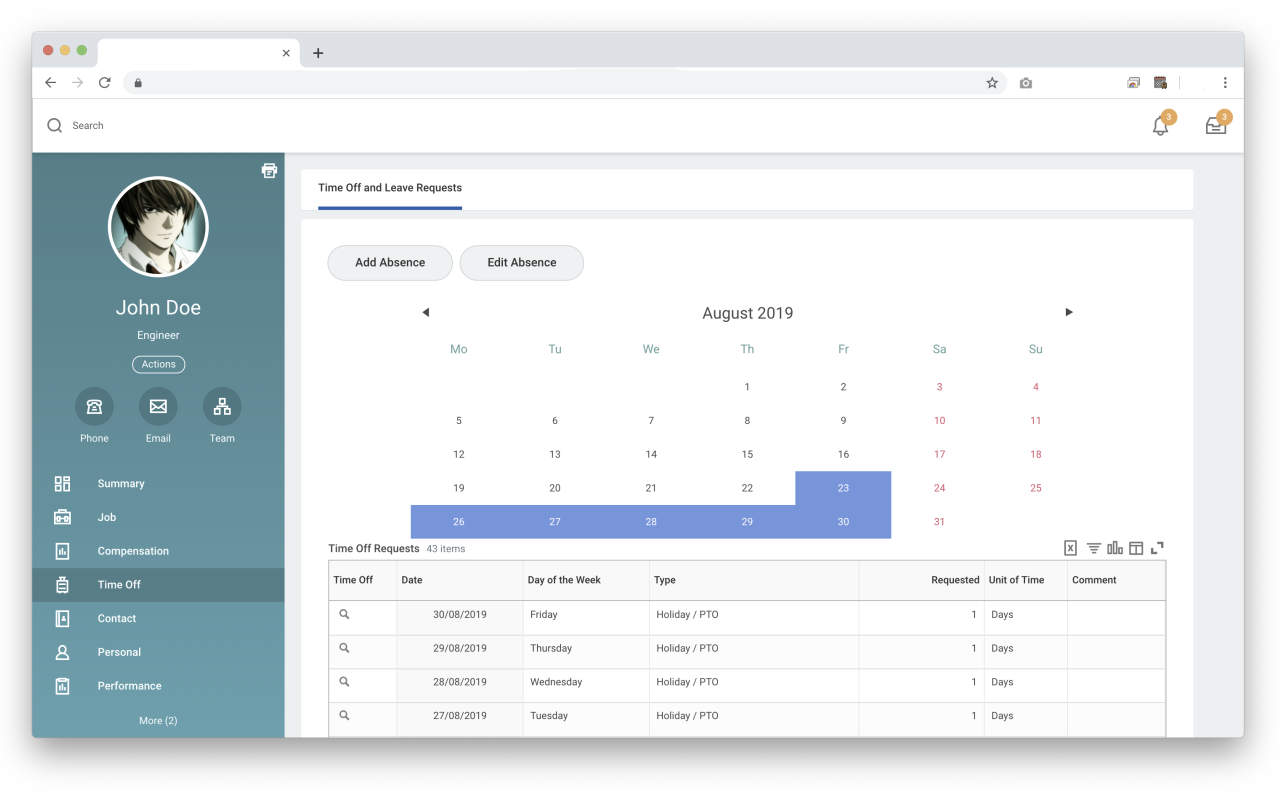
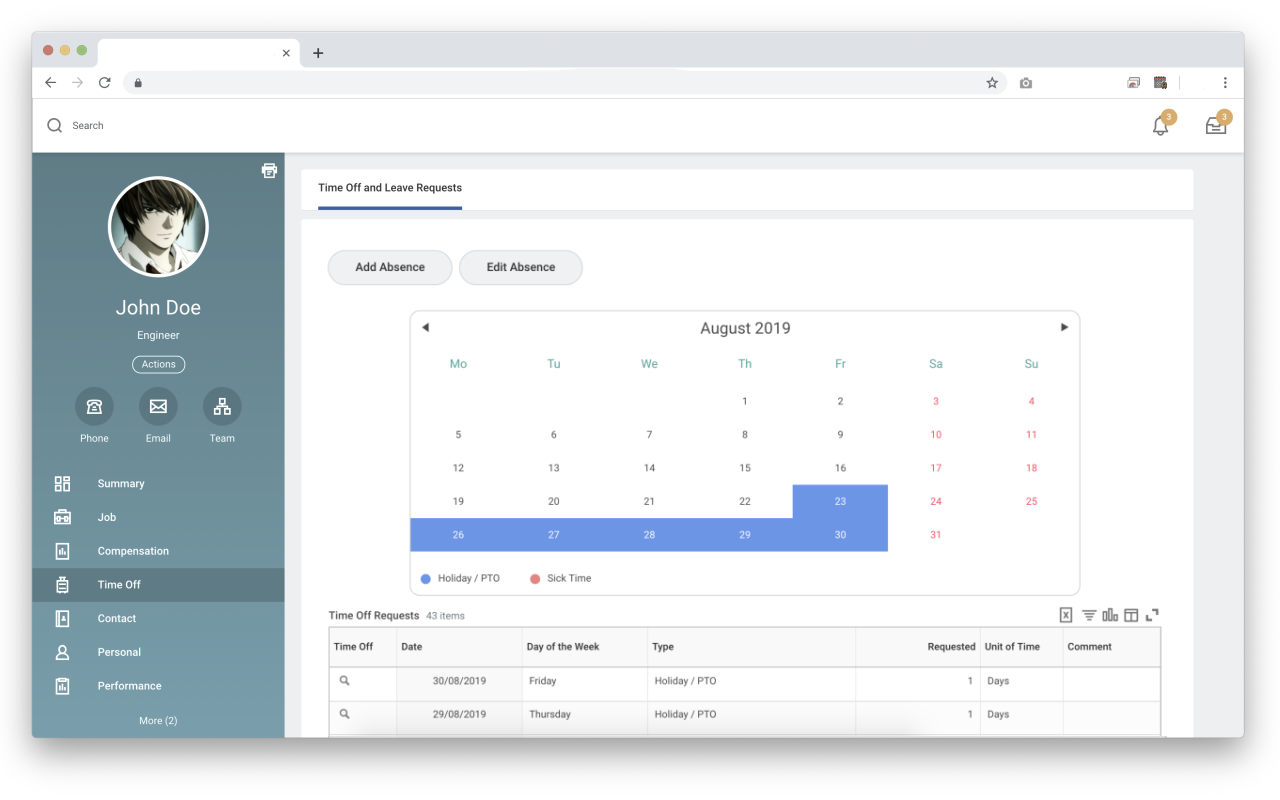
Added legend for the calendar days

diff --git a/src/index.js b/src/index.js
@@ -37,14 +37,25 @@
 	function execute() {
 		let mapping = findColumns();
 		let dates = findDates(mapping);
-		$('.wd-SuperGrid').parent().before(`<div class="hello-week"></div>`);
+		$('.wd-SuperGrid').parent().before(`
+			<div class="calendar-container">
+				<div class="calendar-widget"></div>
+				<ul class="calendar-legend"></ul>
+			</div>
+		`);
 		let calendar = new HelloWeek({
-			selector: '.hello-week',
+			selector: '.calendar-widget',
 			lang: 'en',
 			langFolder: chrome.extension.getURL('langs/'),
 			format: dateFormat,
 			weekStart: weekStart,
 			daysHighlight: dates
+		});
+
+		dates.forEach(function(date) {
+			$('.calendar-legend').append(`
+				<li><span style="background-color: ${date.backgroundColor};"></span> ${date.title}</li>
+			`);
 		});
 	}
 
@@ -115,5 +126,4 @@
 		title: groupName
 	  };
     }
-
 })();

diff --git a/src/index.css b/src/index.css
@@ -1,6 +1,30 @@
-.hello-week {
+.calendar-container {
     max-width: 800px;
+    margin: 1em auto;
+    border: 1px solid #ccc;
+    border-radius: 1em;
 }
-.hello-week .day {
+
+.calendar-widget .day {
     padding: 1em 0;
+}
+
+.calendar-legend { 
+    list-style: none;
+    display: flex;
+    flex-wrap: wrap;
+    margin-top: 1em;
+}
+
+.calendar-legend li {
+    margin: 1em 2em 1em 1em;
+}
+
+.calendar-legend span { 
+    border-radius: 50%;
+    display: inline-block;
+    vertical-align: middle;
+    width: 1em; 
+    height: 1em;
+    margin-right: 0.5em; 
 }
